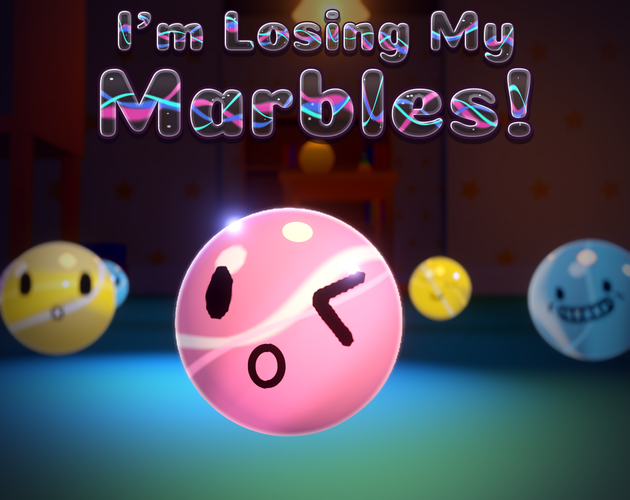
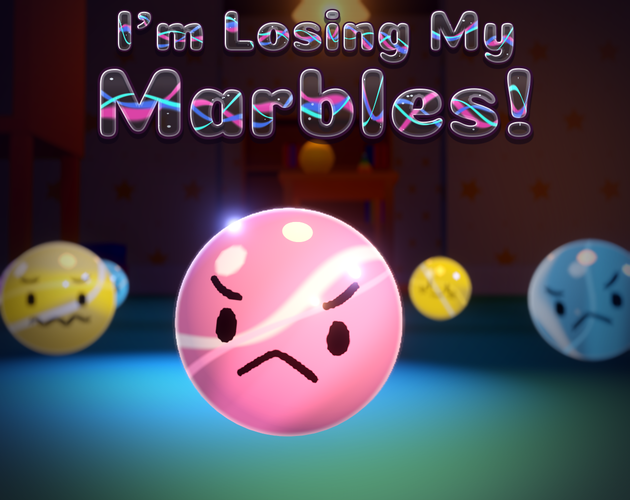
Press images use faces 1, 6, 7, 8, 26 and 34, shown as drawn on the covers

diff --git a/NOTES.md b/NOTES.md
@@ -637,7 +637,7 @@ parts side by side). When that folder has any faces, creatures wear those
 (at random) instead of the built-in doodles; the shader places the parts,
 mirrors the eye for the right, squashes it to blink and squint, grows it
 when startled and wobbles the lines as the ink boils.
-`tests/shoot_face_painter.tscn` checks it end to end; `tests/shoot_drawn_faces.tscn` shows every drawn face in three moods; `tools/import_face_sheet.tscn` turns a sheet of drawn doodle faces (`art/face_sheet.png`) into faces: each face's ink split into left eye, right eye and mouth, the whole face scaled to fit the ball, each part in a snug box where it was drawn, extras beside the eyes (brows, tears, hearts, "!") on a still sixth cell that doesn't change with the mood (saved as `<name>.json`: a face's own layout; without one, the painter's), with its own right eye so lopsided faces stay lopsided (an optional fifth cell). Drawn faces aren't made lopsided at random. Made happy eyes are 1.7x the eye's width and drawn in a 1.6x box (`HAPPY_GROW`, `HAPPY_BOX`). Faces 29 and 36 are skipped (tears touch the eyes). Press shots use only `DoodleFace.PRESS_FACES`, a cheerful set. Older faces from the painter are kept in `art/old_faces/`. Export: include `faces/*.json`. `tools/face_batch.tscn` draws a starter set of simple line faces through the painter (skipping names already there).
+`tests/shoot_face_painter.tscn` checks it end to end; `tests/shoot_drawn_faces.tscn` shows every drawn face in three moods; `tools/import_face_sheet.tscn` turns a sheet of drawn doodle faces (`art/face_sheet.png`) into faces: each face's ink split into left eye, right eye and mouth, the whole face scaled to fit the ball, each part in a snug box where it was drawn, extras beside the eyes (brows, tears, hearts, "!") on a still sixth cell that doesn't change with the mood (saved as `<name>.json`: a face's own layout; without one, the painter's), with its own right eye so lopsided faces stay lopsided (an optional fifth cell). Drawn faces aren't made lopsided at random. Made happy eyes are 1.7x the eye's width and drawn in a 1.6x box (`HAPPY_GROW`, `HAPPY_BOX`). Faces 29 and 36 are skipped (tears touch the eyes). Press shots use only `DoodleFace.PRESS_FACES` (chosen faces 1, 6, 7, 8, 26, 34), posed in their normal mood on the covers. Older faces from the painter are kept in `art/old_faces/`. Export: include `faces/*.json`. `tools/face_batch.tscn` draws a starter set of simple line faces through the painter (skipping names already there).
 - Always: blinks every 2-5 s.
 - Hidden: every 3-8 s it peeks at you for a second; its giveaway (and a
   ping) makes the glass round its eyes flash, bright enough for bloom.
